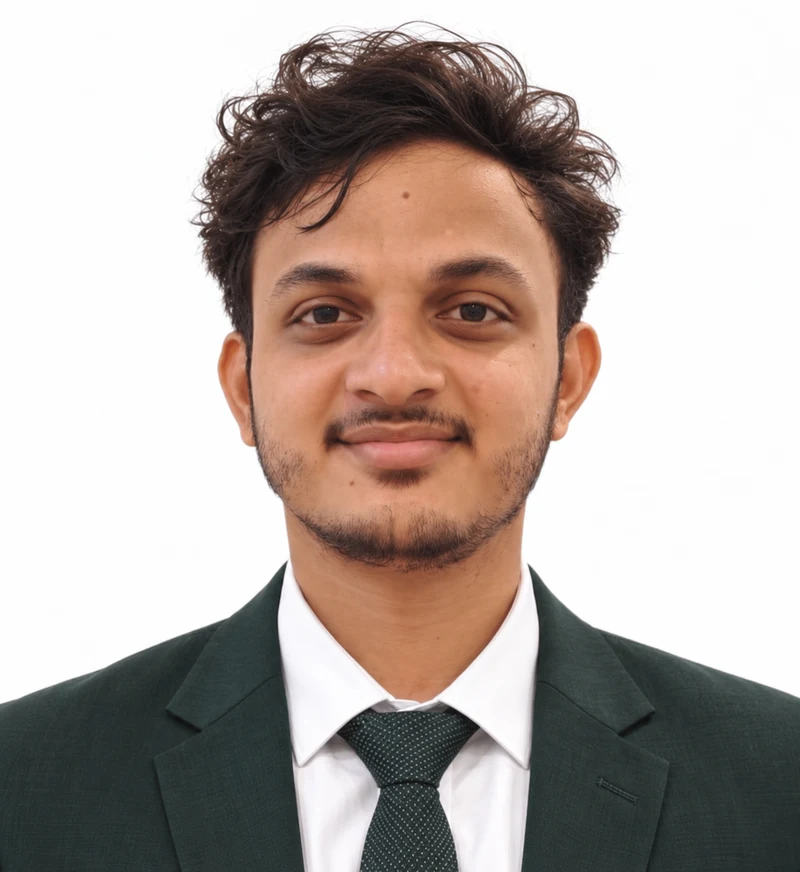
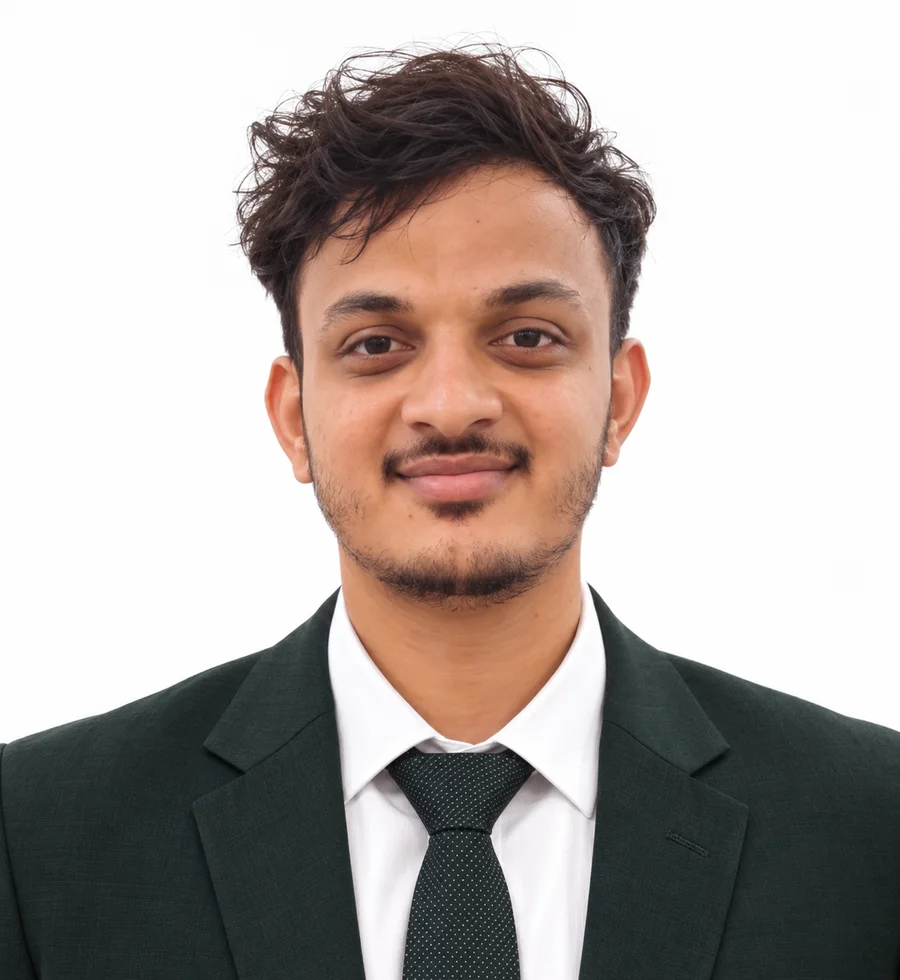
added version

diff --git a/avita/src/styles.css b/avita/src/styles.css
@@ -12,7 +12,7 @@
   --color-secondary: #25242c; --color-secondary-foreground: #f3f2ee;
   --font-sans: "Manrope", Arial, sans-serif;
 }
-:root { interpolate-size: allow-keywords; --ink: #141417; --paper: #f1f0eb; --lavender: #b8a4ff; --muted: #aaa8b3; --border: #ffffff24; --gutter: clamp(24px, 3.1vw, 72px); --header-height: 94px; --scroll-progress: 0; color-scheme: dark; }
+:root { interpolate-size: allow-keywords; --ink: #141417; --paper: #f1f0eb; --lavender: #b8a4ff; --muted: #aaa8b3; --border: #ffffff24; --gutter: clamp(24px, 3.1vw, 72px); --header-height: 94px; color-scheme: dark; }
 * { box-sizing: border-box; }
 html { scroll-behavior: smooth; scroll-padding-top: var(--header-height); }
 body { margin: 0; background: var(--ink); color: var(--paper); font-family: "Manrope", Arial, sans-serif; font-weight: 400; -webkit-font-smoothing: antialiased; }
@@ -44,7 +44,6 @@ h2 { font-size: clamp(48px, 5.5vw, 104px); letter-spacing: -.06em; line-height: 
 
 .site-header { position: sticky; top: 0; z-index: 40; height: var(--header-height); background: var(--ink); color: var(--paper); border-bottom: 1px solid #ffffff0c; }
 .header-inner { height: 100%; display: grid; grid-template-columns: 1fr auto 1fr; align-items: center; gap: 32px; }
-.scroll-progress { position: absolute; top: 0; left: 0; height: 2px; width: 100%; background: var(--lavender); transform: scaleX(var(--scroll-progress)); transform-origin: left; }
 .desktop-navigation { display: flex; align-items: center; gap: clamp(22px, 2.6vw, 48px); }
 .desktop-navigation a { position: relative; display: flex; align-items: center; gap: 7px; min-height: 44px; font-size: 14px; color: #aaa8b3; }
 .nav-index { align-self: start; margin-top: 12px; font-size: 8px; color: #777480; }
@@ -472,7 +471,6 @@ html[data-motion=off] .studio-banner > img { scale: 1; transition: none; }
 .case-built svg { margin-top: 2px; color: var(--cs-amber); }
 .case-stack { display: flex; flex-wrap: wrap; gap: 6px; padding: 0; list-style: none; }
 .case-stack li { padding: 6px 11px; border: 1px solid var(--cs-line); border-radius: 999px; color: #c6d0db; font-size: 12px; }
-.project-dialog-case > [data-slot=dialog-close]:not(.button) { top: 20px !important; right: 20px !important; width: 44px; height: 44px; }
 @keyframes case-in { from { opacity: 0; transform: translateX(24px); } }
 @media (max-width: 960px) {
   .project-dialog.project-dialog-case { display: block; overflow-y: auto; }
@@ -1098,3 +1096,11 @@ html[data-motion=off] .founder-dialog, html[data-motion=off] .fp-portrait, html[
   .footer-brand p { margin-top: 12px; }
   .footer-brand .footer-origin { margin-top: 14px; }
 }
+/* Dialog close button: one round button for every popup */
+.dialog-close { position: absolute; top: 16px; right: 16px; z-index: 5; display: grid; place-items: center; width: 42px; height: 42px; padding: 0; border: 1px solid #1414171f; border-radius: 50%; background: var(--paper); color: var(--ink); cursor: pointer; box-shadow: 0 6px 18px -6px #0006; transition: background .25s, color .25s, transform .3s cubic-bezier(.16, 1, .3, 1); }
+.dialog-close svg { width: 18px; height: 18px; }
+.dialog-close:hover { background: var(--lavender); transform: rotate(90deg); }
+.dialog-close:focus { outline: none; }
+.dialog-close:focus-visible { outline: 2px solid var(--lavender); outline-offset: 3px; }
+.project-dialog-case .dialog-close { top: 20px; right: 20px; }
+.footer-version { display: inline-flex; align-items: center; margin-left: 12px; padding: 2px 8px; border: 1px solid #b8a4ff40; border-radius: 999px; color: var(--lavender); font-size: 9px; letter-spacing: .08em; vertical-align: middle; }

diff --git a/avita/src/components/website.tsx b/avita/src/components/website.tsx
@@ -91,7 +91,6 @@ function Header() {
     }, 0);
   }
   return <header className={`site-header ${light ? "header-light" : ""} ${active === "contact" ? "header-contact" : ""} ${scrolled ? "header-scrolled" : ""}`}>
-    <div className="scroll-progress" aria-hidden="true" />
     <div className="container header-inner">
       <a className="brand-link" href="#home" aria-label="AVITA Technologies home"><Brand light={light} /></a>
       <nav className="desktop-navigation" aria-label="Main navigation">{navigation.map((item, index) =>
@@ -578,7 +577,7 @@ function Footer() {
         <li><a href="https://www.google.com/maps/search/?api=1&query=Plot+No+49+Manish+Nagar+Andheri+West+Mumbai+400053" target="_blank" rel="noreferrer" className="footer-address"><MapPin className="footer-ico" size={17} aria-hidden="true" /><span>Plot No. 49, Manish Nagar,<br />Andheri West, Mumbai 400053</span></a></li>
       </ul></div>
     </div>
-    <div className="footer-bottom"><p>© 2026 AVITA TECHNOLOGIES · RDJ &amp; SMK</p><p>IDEAS. ENGINEERING. REAL IMPACT.</p><a className="back-top" href="#home">Back to top<span><ArrowUpRight size={18} aria-hidden="true" /></span></a></div>
+    <div className="footer-bottom"><p>© 2026 AVITA TECHNOLOGIES · RDJ &amp; SMK<span className="footer-version">v{__APP_VERSION__}</span></p><p>IDEAS. ENGINEERING. REAL IMPACT.</p><a className="back-top" href="#home">Back to top<span><ArrowUpRight size={18} aria-hidden="true" /></span></a></div>
   </div></footer>;
 }
 export default function Website() {

diff --git a/avita/src/components/ui/dialog.tsx b/avita/src/components/ui/dialog.tsx
@@ -69,7 +69,7 @@ function DialogContent({
         {showCloseButton && (
           <DialogPrimitive.Close
             data-slot="dialog-close"
-            className="absolute top-4 right-4 rounded-xs opacity-70 ring-offset-background transition-opacity hover:opacity-100 focus:ring-2 focus:ring-ring focus:ring-offset-2 focus:outline-hidden disabled:pointer-events-none data-[state=open]:bg-accent data-[state=open]:text-muted-foreground [&_svg]:pointer-events-none [&_svg]:shrink-0 [&_svg:not([class*='size-'])]:size-4"
+            className="dialog-close"
           >
             <XIcon />
             <span className="sr-only">Close</span>

diff --git a/avita/vite.config.ts b/avita/vite.config.ts
@@ -1,9 +1,14 @@
 import { defineConfig } from "vite";
 import react from "@vitejs/plugin-react";
+import { readFileSync } from "node:fs";
 import { fileURLToPath, URL } from "node:url";
+
+const { version } = JSON.parse(readFileSync(new URL("./package.json", import.meta.url), "utf8"));
 
 export default defineConfig({
   plugins: [react()],
+  // Shown in the footer; bump with npm run release:patch | release:minor | release:major.
+  define: { __APP_VERSION__: JSON.stringify(version) },
   resolve: {
     alias: { "@": fileURLToPath(new URL("./src", import.meta.url)) },
   },

diff --git a/avita/src/components/motion.tsx b/avita/src/components/motion.tsx
@@ -80,8 +80,6 @@ export function useScrollMotion(enabled: boolean) {
       if (frame) return;
       frame = requestAnimationFrame(() => {
         frame = 0;
-        const distance = document.documentElement.scrollHeight - innerHeight;
-        root.style.setProperty("--scroll-progress", `${distance > 0 ? scrollY / distance : 0}`);
         parallax.forEach(element => {
           const rect = element.getBoundingClientRect();
           const shift = enabled && innerWidth > 960 ? Math.max(-35, Math.min(35, (innerHeight / 2 - rect.top - rect.height / 2) * .06)) : 0;

diff --git a/avita/src/vite-env.d.ts b/avita/src/vite-env.d.ts
@@ -1,0 +1,1 @@
+declare const __APP_VERSION__: string;
